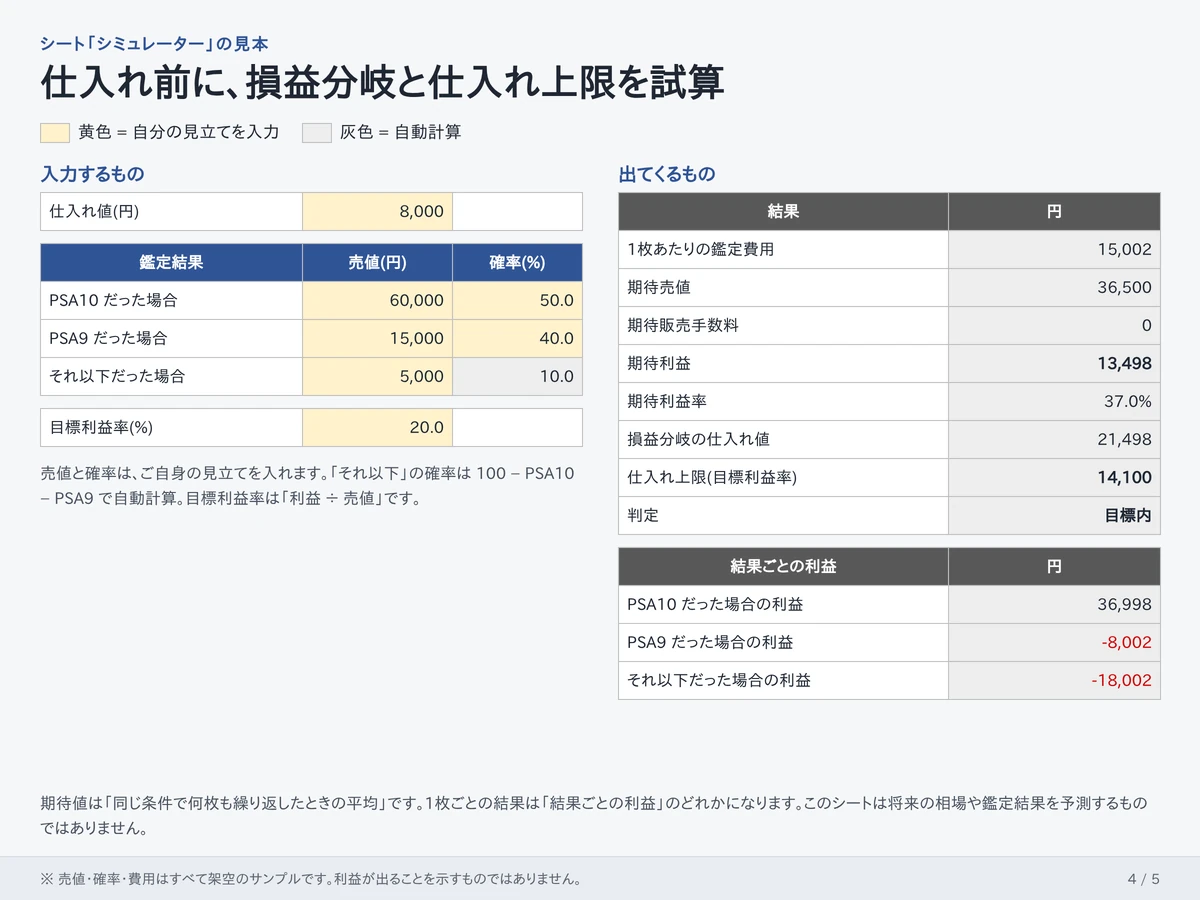
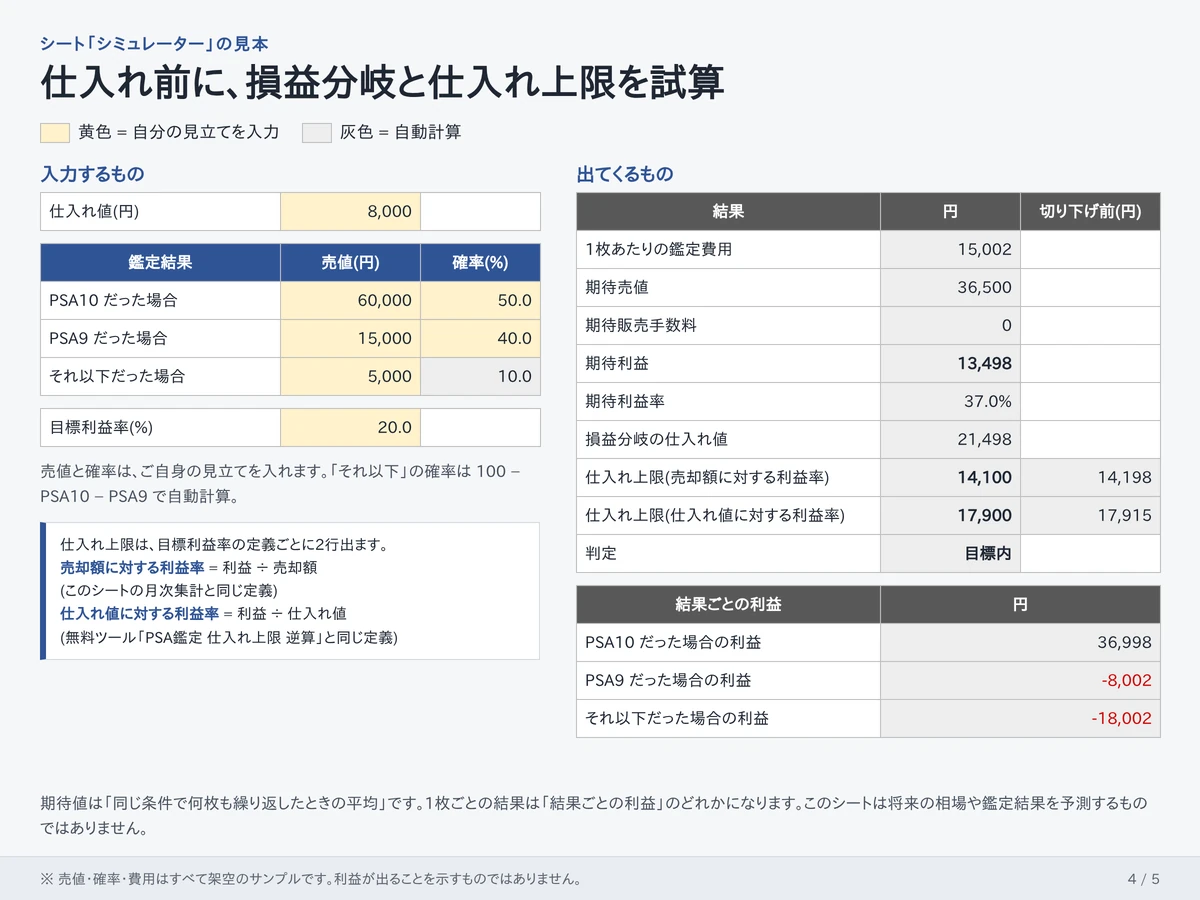
作業途中: ツールサイトの検索向け仕上げ（作成中・未検証）
Claude-Session: https://claude.ai/code/session_017SACTB3kFc3Vu8JtVMq6pa

diff --git a/products/tools-site/README.md b/products/tools-site/README.md
@@ -26,11 +26,24 @@ PSA鑑定の費用の式は `pokeca/core.py`（`per_card_costs`・`recommend`）
 |---|---|
 | `/` | ツール一覧。「トレカ・PSA鑑定」の下に、解説記事3本と商品紹介ページへのリンクがある |
 | `/<slug>/` | 各ツール（23個）。トレカ向けの5ツールだけ、下部に関連する解説記事と商品紹介ページへのリンクが出る |
+| `/guide/` | 解説記事の一覧 |
 | `/guide/grading-cost/` | 解説: 鑑定に出すときの1枚あたり費用の数え方 |
 | `/guide/break-even/` | 解説: 損益分岐の仕入れ値と、グレードが下振れしたときの損益の見方 |
 | `/guide/records/` | 解説: 鑑定転売の記録の付け方 |
 | `/sheet/` | 売り切りのデジタル商品「PSA鑑定 収支管理シート」（`products/psa-sheet/`）の紹介ページ |
 | `/privacy/` | プライバシーポリシー・運営者情報 |
+| `/404.html` | 存在しないURL用のページ（トップと全ツールへのリンクつき）。検索には載せない（noindex、sitemap にも入れない） |
+
+トップと 404 以外の各ページには、上部にパンくず（トップ › 解説記事 › 記事名 など）が出ます。
+
+### 検索・SNS 向けの情報（`build.py` の `page` が全ページに出す）
+
+- `<head>`: `description`（ページごとに別の文。空や重複があるとビルドが止まる）、`canonical`、OGP（`og:title` / `og:description` / `og:type` / `og:url` / `og:site_name`）、
+  `twitter:card`、`theme-color`（ライト/ダーク。色は `src/style.css` の `--bg` から取る）、favicon（`public/favicon.svg` をビルド時に生成）。
+  `canonical` と `og:url` は `site.json` の `url` から作ります。
+- `og:image` は、`site.json` に `og_image` を足したときだけ出ます。値は `https://` のURLか、`src/` に置いた画像のファイル名（ビルド時に `public/` へコピー）。
+- 構造化データ（JSON-LD）: トップに `WebSite`、各ツールに `WebApplication`（無料であることだけ）、解説記事に `Article`、トップ以外に `BreadcrumbList`。
+  評価（`aggregateRating`）・公開日・著者など、確かめられない値は入れていません。
 
 無料のトレカ向けツール → 解説記事 → 商品紹介ページ → 外部の販売サイト、という流れです。このサイトでは販売・決済をせず、
 購入者とのやりとりも発生しない前提です（紹介ページに「サポートなし」「返金は販売サイトの規定」と明記）。
@@ -54,13 +67,24 @@ PSA鑑定の費用の式は `pokeca/core.py`（`per_card_costs`・`recommend`）
 
 ## 公開の手順（本人のアカウントが必要な部分）
 
-1. **ドメインを決める**（任意だが広告審査には独自ドメインが必要）。
-2. `site.json` の `url`（公開URL）、`operator`（運営者名・ペンネーム可）、`contact`（連絡先）を書き換えて `python build.py`。
-3. **Cloudflare Pages** などの静的ホスティングにこのリポジトリを接続し、
-   公開ディレクトリを `products/tools-site/public` に設定する（ビルドコマンドは不要）。
-4. Google Search Console にサイトを登録し、`/sitemap.xml` を送信する。
-5. **Google アドセンス**に申請する。承認されたら `site.json` の `adsense_client` に
-   `ca-pub-...` を入れて `python build.py` → 全ページに広告枠が入る。
+チェックリストです。`python build.py --check` が、`site.json` のうち公開前に直すべき項目を一覧にします
+（警告を表示するだけで、エラーでは止まりません。`python build.py` の最後にも件数が出ます）。
+
+- [ ] **ドメインを決める**（任意だが広告審査には独自ドメインが必要）。
+- [ ] `site.json` の `url` を公開URL（`https://` から、末尾の `/` なし）に書き換える。初期値の `https://example.com` のままだと、
+      canonical・og:url・sitemap.xml・robots.txt がすべて example.com を指します。
+- [ ] `site.json` の `operator` を運営者名（ペンネーム可）に書き換える。
+- [ ] `site.json` の `contact` に連絡先を入れる（プライバシーポリシーのページに表示されます）。
+- [ ] （任意）SNS で共有されたときの画像を用意し、`site.json` に `og_image` を足す。
+- [ ] `python build.py` を実行し、`python build.py --check` の［要対応］が 0 件になったことを確かめる。
+- [ ] **Cloudflare Pages** などの静的ホスティングにこのリポジトリを接続し、
+      公開ディレクトリを `products/tools-site/public` に設定する（ビルドコマンドは不要）。
+      存在しないURLで `404.html` が返ることを確かめる（Cloudflare Pages はドメイン直下の `404.html` を自動で使います。ほかのホスティングでは設定が要ることがあります）。
+- [ ] Google Search Console にサイトを登録し、`/sitemap.xml` を送信する。
+- [ ] **Google アドセンス**に申請する。承認されたら `site.json` の `adsense_client` に
+      `ca-pub-...` を入れて `python build.py` → 全ページに広告枠が入る。
+
+`--check` の［任意］は、空のままでも公開できる項目です（広告ID、`og_image`、商品の販売URL・動作確認の環境）。
 
 審査には数日〜数週間かかり、落ちることもあります。検索からの流入が増えるまで数か月は収益ゼロの想定です。
 
@@ -69,6 +93,7 @@ PSA鑑定の費用の式は `pokeca/core.py`（`per_card_costs`・`recommend`）
 ```bash
 node src/test.mjs     # 計算ロジックのテスト
 python build.py       # public/ を再生成
+python build.py --check   # 公開前に直すべき項目の一覧（生成はしない）
 ```
 
 ツールを増やすときは `src/lib.js`（計算）・`src/test.mjs`（手計算した期待値のテスト）・`src/app.js`（画面）に足し、
